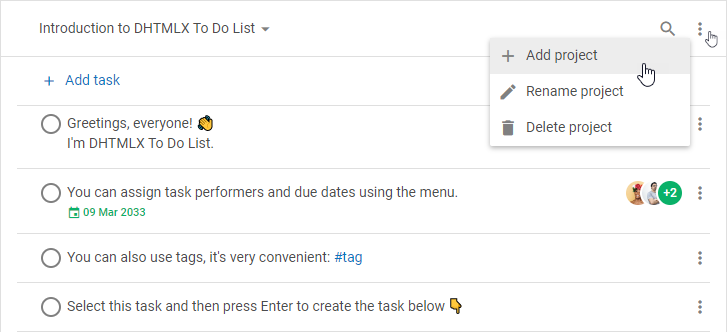
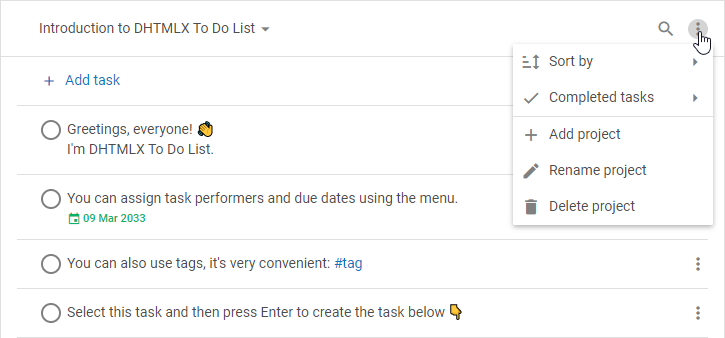
[add] docs for Sorting tasks section, update docs

diff --git a/docs/api/configs/tasks_config.md b/docs/api/configs/tasks_config.md
@@ -23,6 +23,9 @@ tasks: [
         collapsed?: boolean,
         assigned?: string[] | number[],
         due_date?: Date | string,
+        creation_date?: Date | string,
+        completion_date?: Date | string,
+        edited_date?: Date | string,
         [key: string]?: any
     },
     {...} // more task objects
@@ -40,11 +43,14 @@ The **tasks** property presents an array of task objects. Each object includes t
 If there are projects initialized, specify the ID of the necessary project for the root task to display it in this project.<br><br>
 If you don't specify the project ID for the root task or set it to *null* or *undefined*, the task will belong to the *No project* section.
 :::<br>
-- `text`- (optional) the text of the task
-- `checked`- (optional) marks the task as completed
-- `collapsed`- (optional) defines whether the task is collapsed initially (in case the task has subtasks)
-- `assigned`- (optional) an array with ID(s) of the people assigned to the task. To initialize the list of assignees, use the [users](api/configs/users_config.md) property.
+- `text` - (optional) the text of the task
+- `checked` - (optional) marks the task as completed
+- `collapsed` - (optional) defines whether the task is collapsed initially (in case the task has subtasks)
+- `assigned` - (optional) an array with ID(s) of the people assigned to the task. To initialize the list of assignees, use the [users](api/configs/users_config.md) property.
 - `due_date` - (optional) the date when the task must be completed
+- `creation_date` - (optional) the date of the task creation (auto-generated)
+- `completion_date` - (optional) the date of the task completion (auto-generated when you mark a task as complete; auto-removed when you mark a task as incomplete)
+- `edited_date` - (optional) the date of the task editing (auto-generated when you change the text of the task)
 - `[key: string]`- (optional) a set of custom properties
 
 ### Example
@@ -97,6 +103,8 @@ const toolbar = new Toolbar("#toolbar", {
     api: list.api,
 });
 ~~~
+
+**Change log:** The `creation_date`, `completion_date`, `edited_date` parameters were added in v1.1
 
 **Related articles:** 
 - [Loading and storing data](guides/loading_data.md)

diff --git a/docs/guides/sorting_filtering_tasks.md b/docs/guides/sorting_filtering_tasks.md
@@ -8,11 +8,23 @@ description: You can learn about sorting and filtering of tasks in the documenta
 
 ## Sorting tasks
 
+The library allows you to sort tasks after the initialization stage. This can be done:
 
+- via the **sorting options** of the [Toolbar menu](../../#toolbar). You may sort tasks by text, due date, completion date, creation date, or editing date
+
+- via the [setSort()](api/methods/setsort_method.md) method. You may specify your own search function  or implement sorting by a [task attribute](api/configs/tasks_config.md#parameters). For instance:
+
+~~~js
+list.setSort({
+    by: task => task.id, // or by: "text"
+    dir: "asc",
+    // tree: true // enable tree sort, false by default
+});
+~~~
 
 ## Filtering tasks
 
-You can find the tasks that match the specified criteria with the help of the [setFilter()](../../api/methods/setfilter_method/) method. The method supports the *strict* mode of filtering that allows you to filter tasks by the exact match.
+You can find the tasks that match the specified criteria both via the [search bar](../../#toolbar) or through the [setFilter()](api/methods/setfilter_method.md) method. The method supports the *strict* mode of filtering that allows you to filter tasks by the exact match.
 
 ~~~js
 // filter data by the specified rules

diff --git a/docs/overview.md b/docs/overview.md
@@ -25,7 +25,15 @@ The interface of the To Do List component consists of two parts: [Toolbar](#tool
 
 ![toolbar](assets/search_field.png)
 
-- a **menu** for adding a new project, and renaming or deleting a currently active project
+- a **menu** with a set of controls which allow you to:
+    - sort tasks in the ascending/descending order by the following criteria:
+        - by text
+        - by due date
+        - by completion date
+        - by creation date
+        - by editing date
+    - hide/show completed tasks
+    - to add a new project, rename or delete a currently active project
 
 ![toolbar](assets/project_menu.png)
 
@@ -89,8 +97,6 @@ You can select the tasks only if they are visible on the page, i.e. tasks which 
 - To change the due date of the task, click the due date shown in the task and choose the necessary date 
 
 - To assign people to the task, open the task menu, hover **Assign to** and select the necessary people in the dropdown list. To unassign people from the task, unselect them in the dropdown list
-
-![menu](assets/menu.png)
 
 ### Moving a task
 

diff --git a/docs/guides/configuration.md b/docs/guides/configuration.md
@@ -158,17 +158,9 @@ const list = new ToDo("#root", {
 
 ## Toolbar
 
-![toolbar](../assets/separate_toolbar.png)
-
 The toolbar is a top part of To Do List which is [initialized](guides/initialization.md#initialize-toolbar) and [configured](category/toolbar-properties.md) separately from To Do List.
 
-By default, there are the following controls in the toolbar:
-
-- the **"combo"** control which allows you to switch between projects or search for the necessary ones
-- the **"search"** control which provides the search bar
-- the **"menu"** control which allows you to add, remove, or delete a project
-
-To adjust the structure of the toolbar, use the [items](api/toolbar_api/configs/items_config.md) configuration property of the Toolbar component. 
+To change the default structure of the toolbar, use the [items](api/toolbar_api/configs/items_config.md) configuration property of the Toolbar component. 
 
 ~~~js
 const toolbar = new Toolbar("#toolbar", {

diff --git a/docs/api/toolbar_api/configs/items_config.md b/docs/api/toolbar_api/configs/items_config.md
@@ -34,7 +34,15 @@ The **items** array can include the following parameters:
 
 - `"combo"` - the combo control for choosing a project
 - `"search"` - the search bar 
-- `"menu"` - the menu for adding/renaming/removing a project
+- `"menu"` - the menu with a set of options which allow you to:
+	- sort tasks in the ascending/descending order by the following criteria: 
+		- by text 
+		- by due date 
+		- by completion date 
+		- by creation date 
+		- by editing date 
+	- hide/show completed tasks
+	- to add a new project, rename or delete a currently active project
 - `"custom_item"` - a custom control specified either as a string or a function
 
 :::tip

diff --git a/docs/api/events/setfilter_event.md b/docs/api/events/setfilter_event.md
@@ -56,5 +56,5 @@ list.api.on("set-filter", (obj) => {
 });
 ~~~
 
-**Related article:** [Operations with tasks](guides/task_operations.md#filtering-tasks)
+**Related article:** [Sorting and filtering tasks](guides/sorting_filtering_tasks.md)
 

diff --git a/docs/api/methods/setfilter_method.md b/docs/api/methods/setfilter_method.md
@@ -56,4 +56,4 @@ list.setFilter({
 list.setFilter({ match: null });
 ~~~
 
-**Related article:** [Operations with tasks](guides/task_operations.md)
+**Related article:** [Sorting and filtering tasks](guides/sorting_filtering_tasks.md)

diff --git a/docs/api/events/setsort_event.md b/docs/api/events/setsort_event.md
@@ -53,3 +53,5 @@ list.api.on("set-sort", ({ by, dir, tree }) => {
     console.log(by, dir, tree);
 });
 ~~~
+
+**Related article:** [Sorting and filtering tasks](guides/sorting_filtering_tasks.md)

diff --git a/docs/api/methods/setsort_method.md b/docs/api/methods/setsort_method.md
@@ -58,4 +58,4 @@ list.setSort({
 
 **Change log:** Added in v1.1
 
-**Related article:** 
+**Related article:** [Sorting and filtering tasks](guides/sorting_filtering_tasks.md)
